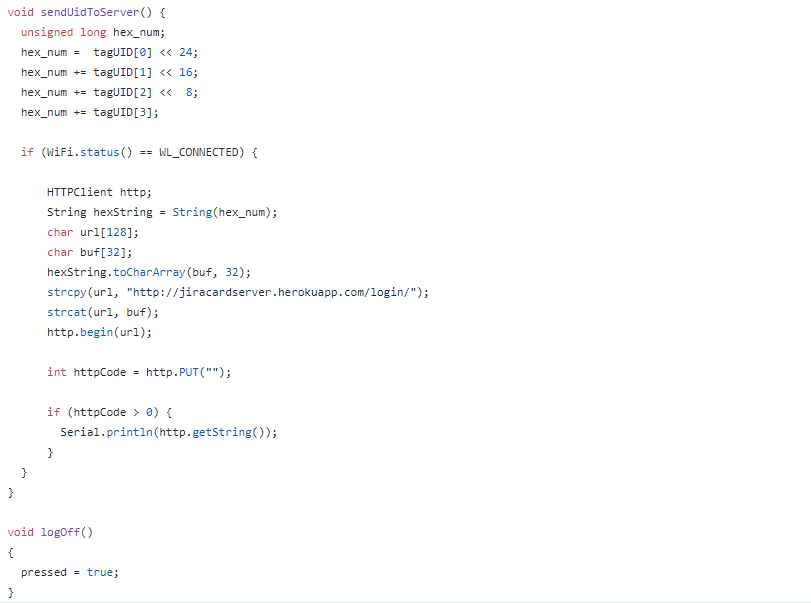
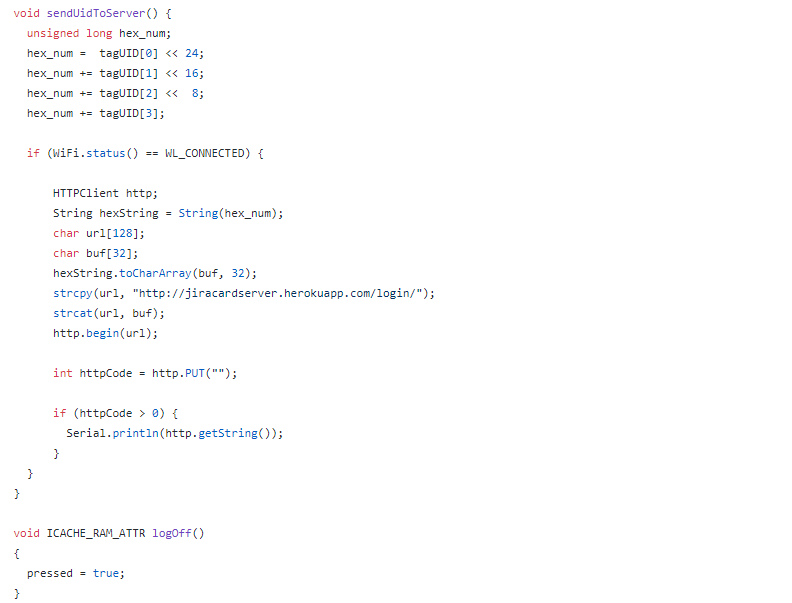
[DOC] New screenshots for iram

diff --git a/Dokumente/Dokumentation.tex b/Dokumente/Dokumentation.tex
@@ -284,7 +284,7 @@ Im Prototyp werden die Karten mit Schalter ausgestattet. Das stellt jedoch keine
   			\caption{Terminalcode mit Instanzierung von globalen Variablen. Hinweis: SSID und Passwort des Drahtlosnetzwerkes wurden aus datenschutzrechtlichen Gründen entfernt.}
   			\label{fig:terminalHead}
 		\end{figure}
-		\noindent Zu Beginn wird ein Interrupt auf dem GPIO-Pin des Buttons festgelegt. Ein Interrupt ist ein Programmteil, der bei einem bestimmten Event (hier: Drücken des Buttons) ausgelöst wird, den eigentlichen Programmteil unterbricht und stattdessen eine Ausweichmethode ausführt. In diesem Fall wird bei Druck des Buttons die Methode logOff() aufgerufen, die lediglich die Variable pressed auf true setzt. Diese Interrupt Service Routine wird nur ausgeführt, wenn der Buttonstatus ''RISING'' ist, also der Wert steigend ist, was nur bei einem Knopfdruck der Fall ist. Die Variable pressed und somit die Information, dass der Button gedrückt wurde, wird in der loop-Methode verarbeitet. \\ \\
+		\noindent Zu Beginn wird ein Interrupt auf dem GPIO-Pin des Buttons festgelegt. Ein Interrupt ist ein Programmteil, der bei einem bestimmten Event (hier: Drücken des Buttons) ausgelöst wird, den eigentlichen Programmteil unterbricht und stattdessen eine Ausweichmethode ausführt. In diesem Fall wird bei Druck des Buttons die Methode logOff() aufgerufen, die lediglich die Variable pressed auf true setzt und im Cache verortet ist. Das ist notwendig, damit nicht nur der erste Knopfdruck registriert wird. Diese Interrupt Service Routine wird nur ausgeführt, wenn der Buttonstatus ''RISING'' ist, also der Wert steigend ist, was nur bei einem Knopfdruck der Fall ist. Die Variable pressed und somit die Information, dass der Button gedrückt wurde, wird in der loop-Methode verarbeitet. \\ \\
 		Ebenfalls initiiert wird die serielle Verbindung zwischen dem Entwicklungsrechner und dem Mikrocontroller auf einer Rate von 115200 Baud. Sie ist für Logging und Fehlermeldungen nötig. So lässt sich am Rechner der USB-Port, an dem der Controller angeschlossen ist auf der Baud-Rate auslesen. Diese Verbindung wird mit Serial.begin() gestartet und mit Befehlen wie Serial.print(''Text'') angesprochen. Zu Weiterleitung der Terminalanmeldungen an den Server wird eine WLAN-Verbindung mit WiFi.begin(ssid, passwort) gestartet und auf eine erfolgreiche Verbindung (Status ''WL\_CONNECTED'') gewartet. Während des Herstellens der Verbindung werden keine weiteren Programmteile ausgeführt. Nach erfolgreicher Verbindung werden das SPI und der RFID-Reader mit Methoden der jeweiligen Bibliotheken initiiert. Zum Schluss wird über die serielle Verbindung eine Meldung über das abgeschlossene Setup ausgegeben. \\
 			\begin{figure}[H] 
   			\centering
@@ -292,7 +292,7 @@ Im Prototyp werden die Karten mit Schalter ausgestattet. Das stellt jedoch keine
   			\caption{Terminalcode der Setup-Methode}
   			\label{fig:terminalSetup}
 		\end{figure}
-		\noindent Die loop-Methode wird nach einmaliger Ausführung der setup-Methode in einer Schleife ausgeführt. Es gibt zwei Aktionen auf die das Terminal reagieren muss: Das Betätigen des Buttons und das Anlegen eines RFID-Tags. Daher werden diese zwei Aktionen permanent abgefragt. Die Variable pressed beschreibt, ob der Button gedrückt wurde. Wenn dies der Fall ist wird zusätzlich geprüft, ob das Terminal mit dem Internet verbunden ist. Wenn auch dies der Fall ist wird der Server kontaktiert. Dazu wird ein PUT-Request an die Ressource ''/logoff'' versendet, näheres dazu in Kapitel \ref{ressourcenServer}. Der Server meldet den angemeldeten Benutzer ab und gibt dies als Response zurück. Daraufhin wird die Methode resetFunc aufgerufen und das Terminal damit neu gestartet. Dies ist nötig, da das Terminal nach einmaligem Knopfdruck die Interrupt-Methode ''logOff'' nicht mehr ausführt. Der Grund dafür ist leider nicht bekannt, auch die explizite Zuweisung der ISR in den IRAM hat hier nicht geholfen. Dafür wurde der Workaround implementiert, dass sich das Terminal nach jedem Knopfdruck neu startet. \\ \\
+		\noindent Die loop-Methode wird nach einmaliger Ausführung der setup-Methode in einer Schleife ausgeführt. Es gibt zwei Aktionen auf die das Terminal reagieren muss: Das Betätigen des Buttons und das Anlegen eines RFID-Tags. Daher werden diese zwei Aktionen permanent abgefragt. Die Variable pressed beschreibt, ob der Button gedrückt wurde. Wenn dies der Fall ist wird zusätzlich geprüft, ob das Terminal mit dem Internet verbunden ist. Wenn auch dies der Fall ist wird der Server kontaktiert. Dazu wird ein PUT-Request an die Ressource ''/logoff'' versendet, näheres dazu in Kapitel \ref{ressourcenServer}. Der Server meldet den angemeldeten Benutzer ab und gibt dies als Response zurück. \\ \\
 		Die zweite zu prüfende Aktion ist das Anhalten eines Tags. Hierzu wird zuerst geprüft, ob eine Karte angehalten wird und ob eine Seriennummer auslesbar ist. Das Array tagUID speichert die UID des Tags in Bytes. Um keinen Tag doppelt hintereinander auszulesen werden die Bytes des aktuellen Tags mit denen der Variable tagUID abgeglichen. Wenn sie sich nicht entsprechen wird die UID des neuen Tags gespeichert und die Methode ''sendUidToServer'' aufgerufen.  \\
 		\begin{figure}[H] 
   			\centering
@@ -313,7 +313,7 @@ Im Prototyp werden die Karten mit Schalter ausgestattet. Das stellt jedoch keine
   			\caption{Terminalcode mit Instanzierung von globalen Variablen. Hinweis: SSID und Passwort des Drahtlosnetzwerkes wurden aus datenschutzrechtlichen Gründen entfernt.}
   			\label{fig:storyHead}
 		\end{figure}
-		\noindent Auch für die Karte wird zu Beginn eine serielle Verbindung zum Logging hergestellt, der Interrupt-Pin definiert und eine WLAN-Verbindung aufgebaut. Bereits in der setup-Methode wird ein GET-Request an den Server gesendet. In diesem Request übergibt die Karte ihre ID an den Server und fragt an, ob im JIRA eine Story für die Karte hinterlegt ist. Der genaue Prozess seitens des JIRA wird in Kapitel XX erläutert. Die empfangenen Daten werden in der zuvor beschriebenen JSON-Variablen gespeichert. Ein Beispiel für eine solche JSON-Struktur findet sich in Anhang //XYZ//. \\
+		\noindent Auch für die Karte wird zu Beginn eine serielle Verbindung zum Logging hergestellt, der Interrupt-Pin definiert und eine WLAN-Verbindung aufgebaut. Bereits in der setup-Methode wird ein GET-Request an den Server gesendet. In diesem Request übergibt die Karte ihre ID an den Server und fragt an, ob im JIRA eine Story für die Karte hinterlegt ist. Der genaue Prozess seitens des JIRA wird in Kapitel //XX// erläutert. Die empfangenen Daten werden in der zuvor beschriebenen JSON-Variablen gespeichert. Ein Beispiel für eine solche JSON-Struktur findet sich in Anhang //XYZ//. \\
 		\begin{figure}[H] 
   			\centering
     		\includegraphics[height=0.5\textheight]{storySetup}
@@ -334,7 +334,7 @@ Im Prototyp werden die Karten mit Schalter ausgestattet. Das stellt jedoch keine
   				\caption{Kartencode der Loop-Methode, Teil 2}
   				\label{fig:storyLoop2}
 			\end{figure}
-			\noindent Für den Fall, dass der Button im Daily betätigt wird, soll sich der Status der Karte verändern und die Story dem angemeldeten Teammitglied zugewiesen werden. Zu Beginn wird die Variable ''abbreviation'' geprüft, die das Kürzel der Story gespeichert. Ist kein Kürzel vorhanden, gibt es auch keine anzupassende Story. Ist jedoch ein Kürzel vorhanden, wird ein PUT-Request an den Ressource ''/status/issueID'' gesendet, wobei issueID das Kürzel der Story beinhaltet. Das Verändern des Status, sowie die Zuweisung im JIRA übernimmt der Server. Zuletzt wird die Karte aktualisiert, um die neuen Änderungen anzuzeigen. Nach erfolgreicher Ausführung der jeweiligen Aktion muss der Mikrocontroller der Karte neu gestartet werden, siehe dazu auch Kapitel \ref{logicTerminal}. \\
+			\noindent Für den Fall, dass der Button im Daily betätigt wird, soll sich der Status der Karte verändern und die Story dem angemeldeten Teammitglied zugewiesen werden. Zu Beginn wird die Variable ''abbreviation'' geprüft, die das Kürzel der Story gespeichert. Ist kein Kürzel vorhanden, gibt es auch keine anzupassende Story. Ist jedoch ein Kürzel vorhanden, wird ein PUT-Request an den Ressource ''/status/issueID'' gesendet, wobei issueID das Kürzel der Story beinhaltet. Das Verändern des Status, sowie die Zuweisung im JIRA übernimmt der Server. Zuletzt wird die Karte aktualisiert, um die neuen Änderungen anzuzeigen. \\
 			 \begin{figure}[H] 
   				\centering
     			\includegraphics[height=0.5\textheight]{storyHelper}
